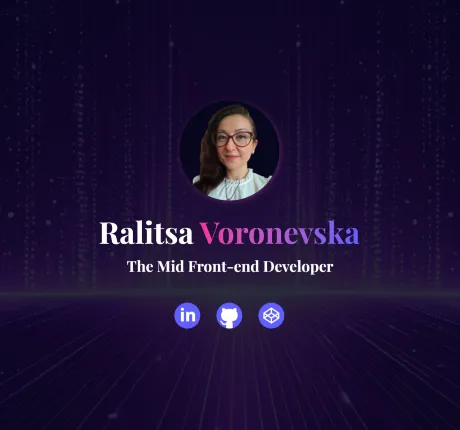
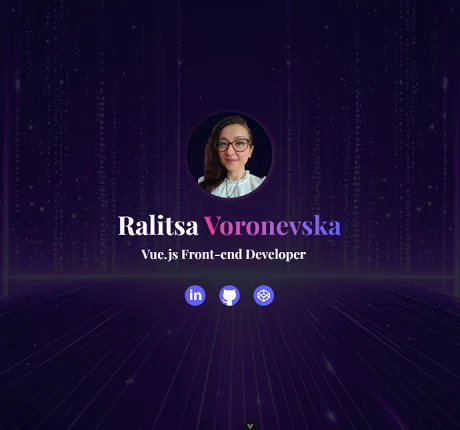
Centralize portfolio content into a single data source

diff --git a/src/data/portfolio.ts b/src/data/portfolio.ts
@@ -13,6 +13,12 @@ export interface SocialIcon {
   file_name: string;
 }
 
+export interface Highlight {
+  icon: string;
+  label: string;
+  text: string;
+}
+
 export interface Tech {
   name: string;
   file_name: string;
@@ -22,9 +28,19 @@ export interface Project {
   image: string;
   title: string;
   description: string;
+  techDescription: string;
   techStack: Tech[];
   links: SocialIcon[];
 }
+
+export const PAGES_CONTENT = {
+  hero_subtitle: "Vue.js Front-end Developer",
+  about_me_subtitle: "Hi, I'm Ralitsa Voronevska!",
+  about_me_description: `Front-end developer with 6 years of experience building performant, scalable, and fully responsive web solutions 
+  with a mobile-first approach in mind. I am focused on solutions that serve both user needs and business objectives. I adapt quickly
+  across differing codebase conventions and team structures. Since early 2026, I’ve been working on refreshing my basic Python skills.`,
+  projects_subtitle: "My latest projects built with cutting-edge technologies!",
+};
 
 export const HERO_SOCIAL_LINKS: SocialIcon[] = [
   {
@@ -54,6 +70,34 @@ export const CONTACT_SOCIAL_LINKS: SocialIcon[] = [
   { name: "Email", url: "mailto:r.voronevska@gmail.com", file_name: "email" },
 ];
 
+export const SKILLS: string[] = [
+  "Vue 3",
+  "Vite",
+  "Vitest",
+  "TypeScript",
+  "Nuxt v4",
+  "Pinia",
+  "Tailwind v4",
+];
+
+export const HIGHLIGHTS: Highlight[] = [
+  {
+    icon: "⚡",
+    label: "Performance",
+    text: "Faster load times through code-splitting, lazy loading, and smart caching",
+  },
+  {
+    icon: "✨",
+    label: "AI-assisted workflow",
+    text: "Integrating AI platforms to speed up delivery without compromising code quality",
+  },
+  {
+    icon: "{ }",
+    label: "Code quality",
+    text: "SOLID principles, design patterns, best practices, clean, and well-documented code",
+  },
+];
+
 export const TECH_STACK: Tech[] = [
   { name: "Tailwind CSS", file_name: "tailwind-css" },
   { name: "JavaScript", file_name: "javascript" },
@@ -75,13 +119,15 @@ export const TECH_STACK: Tech[] = [
 export const PROJECTS: Project[] = [
   {
     image: vuePortfolioImage,
-    title: "Vue.js Portfolio",
-    description: "My Modern Vue.js 3 Portfolio",
+    title: "Vue.js 3 Portfolio",
+    description: "Original, built from scratch",
+    techDescription: "Modern Matrix-like Themed Portfolio",
     techStack: [
       { name: "Vue.js", file_name: "vue-js" },
       { name: "Vite.js", file_name: "vite-js" },
       { name: "Vitest", file_name: "vitest" },
       { name: "TypeScript", file_name: "typescript" },
+      { name: "Pinia", file_name: "pinia" },
       { name: "Tailwind CSS", file_name: "tailwind-css" },
     ],
     links: [
@@ -104,8 +150,9 @@ export const PROJECTS: Project[] = [
   },
   {
     image: restApiImage,
-    title: "Node.js REST API",
-    description: "Simple Shop RESTful API",
+    title: "Secure Node.js REST API",
+    description: "RESTful API with Authentication",
+    techDescription: "Multer + Morgan + JWT + Bcrypt",
     techStack: [
       { name: "Node.js", file_name: "node-js" },
       { name: "Express.js", file_name: "express-js" },
@@ -128,12 +175,14 @@ export const PROJECTS: Project[] = [
     image: maptyAppImage,
     title: "Mapty App",
     description: "Map your Workout Activities",
+    techDescription: "OpenStreetMap + Leaflet.js",
     techStack: [
       { name: "Vue.js", file_name: "vue-js" },
       { name: "Vite.js", file_name: "vite-js" },
+      { name: "Vitest", file_name: "vitest" },
       { name: "TypeScript", file_name: "typescript" },
-      { name: "Tailwind CSS", file_name: "tailwind-css" },
       { name: "Pinia", file_name: "pinia" },
+      { name: "Tailwind CSS", file_name: "tailwind-css" },
     ],
     links: [
       {
@@ -152,14 +201,15 @@ export const PROJECTS: Project[] = [
   {
     image: monsterSlayerImage,
     title: "Monster Slayer Game",
-    description: "Give the Monster A Lesson",
+    description: "Give the Monster A Memorable Lesson",
+    techDescription: "Battle sounds powered by Howler.js",
     techStack: [
       { name: "Vue.js", file_name: "vue-js" },
       { name: "Vite.js", file_name: "vite-js" },
       { name: "Vitest", file_name: "vitest" },
       { name: "TypeScript", file_name: "typescript" },
-      { name: "Tailwind CSS", file_name: "tailwind-css" },
       { name: "Pinia", file_name: "pinia" },
+      { name: "Tailwind CSS", file_name: "tailwind-css" },
     ],
     links: [
       {
@@ -183,6 +233,7 @@ export const PROJECTS: Project[] = [
     image: pigGameImage,
     title: "Pig Game",
     description: "A Single Dice Game for two players",
+    techDescription: "Game sounds are powered by Howler.js",
     techStack: [
       { name: "Vue.js", file_name: "vue-js" },
       { name: "Vite.js", file_name: "vite-js" },
@@ -212,14 +263,14 @@ export const PROJECTS: Project[] = [
     image: zendeskPulseImage,
     title: "Zendesk Pulse",
     description: "Modern PrimeVue UI for Zendesk",
+    techDescription: "JWT + Postman + Swagger + Prism",
     techStack: [
       { name: "Vue.js", file_name: "vue-js" },
       { name: "Vite.js", file_name: "vite-js" },
       { name: "Vitest", file_name: "vitest" },
       { name: "JavaScript", file_name: "javascript" },
-      { name: "Tailwind CSS", file_name: "tailwind-css" },
       { name: "Pinia", file_name: "pinia" },
-      { name: "PostMan", file_name: "postman" },
+      { name: "Tailwind CSS", file_name: "tailwind-css" },
       { name: "FireBase", file_name: "firebase" },
     ],
     links: [
@@ -239,7 +290,8 @@ export const PROJECTS: Project[] = [
   {
     image: elevationMarketingImage,
     title: "Elevation Marketing",
-    description: "A modern Marketing Agency website",
+    description: "Modern Marketing Agency Website",
+    techDescription: "Custom branding, theme and visuals",
     techStack: [
       { name: "Nuxt.js", file_name: "nuxt-js" },
       { name: "Vue.js", file_name: "vue-js" },
@@ -264,7 +316,8 @@ export const PROJECTS: Project[] = [
   {
     image: maximaCxImage,
     title: "Maxima CX",
-    description: "Customer Support Agency website",
+    description: "Customer Support Agency Website",
+    techDescription: "Brand identity, theme and content",
     techStack: [
       { name: "Nuxt.js", file_name: "nuxt-js" },
       { name: "Vue.js", file_name: "vue-js" },

diff --git a/src/components/AboutMe.vue b/src/components/AboutMe.vue
@@ -1,27 +1,9 @@
 <script setup lang="ts">
 import HeroImage from "./HeroImage.vue";
+import { usePortfolioData } from "@/composables/usePortfolioData";
 
-// Skill pills
-const skills = ["Vue 3", "Nuxt v4", "TypeScript", "Pinia", "Tailwind v4"];
-
-// Feature cards — label + one-line description
-const highlights = [
-  {
-    icon: "⚡",
-    label: "Performance",
-    text: "Faster load times through code-splitting, lazy loading, and smart caching",
-  },
-  {
-    icon: "✨",
-    label: "AI-assisted workflow",
-    text: "Integrating AI platforms to speed up delivery without compromising code quality",
-  },
-  {
-    icon: "{ }",
-    label: "Code quality",
-    text: "SOLID principles, design patterns, best practices, clean, and well-documented code",
-  },
-];
+const { aboutMeSubtitle, aboutMeDescription, skills, highlights } =
+  usePortfolioData();
 </script>
 
 <template>
@@ -32,7 +14,7 @@ const highlights = [
   >
     <!-- headings -->
     <h2>About <span class="gradient-text">Me</span></h2>
-    <h3>Hi, I'm Ralitsa Voronevska!</h3>
+    <h3>{{ aboutMeSubtitle }}</h3>
 
     <!-- Header: stacked + centered on mobile, side-by-side from sm: up -->
     <div
@@ -42,12 +24,7 @@ const highlights = [
 
       <div class="rounded-lg w-full flex-1 shadow-3xl bg-slate-950/75 p-4">
         <p class="mb-6 leading-relaxed text-lg sm:leading-relaxed">
-          Front-end developer with 6 years of experience building performant,
-          scalable, and fully responsive web solutions with a mobile-first
-          approach in mind. I am focused on solutions that serve both user needs
-          and business objectives. I adapt quickly across differing codebase
-          conventions and team structures. Since early 2026, I’ve been working
-          on refreshing my basic Python skills.
+          {{ aboutMeDescription }}
         </p>
 
         <div class="flex flex-wrap justify-center gap-1.5 sm:justify-start">
@@ -70,7 +47,7 @@ const highlights = [
         class="rounded-lg shadow-3xl bg-slate-950/75 p-4"
       >
         <p
-          class="mb-1.5 flex items-center gap-1.5 text-xs text-slate-500 sm:text-[13px] dark:text-slate-400"
+          class="mb-1.5 flex items-center gap-1.5 text-xs text-slate-400 sm:text-[13px]"
         >
           <span aria-hidden="true">{{ item.icon }}</span>
           {{ item.label }}

diff --git a/src/components/ProjectCard.vue b/src/components/ProjectCard.vue
@@ -25,11 +25,20 @@
         <!-- Description -->
         <p class="card-desc">{{ description }}</p>
 
+        <!-- Tech Description -->
+        <p class="card-tech-desc">{{ techDescription }}</p>
+
         <!-- start of glow-icons -->
         <div
           ref="sectionRef"
           class="glow-icons"
-          :class="techStack.length > 5 ? 'gap-2' : 'gap-3'"
+          :class="
+            techStack.length === 7
+              ? 'gap-1.75 md:gap-2.5 lg:gap-4'
+              : techStack.length > 5
+                ? 'gap-4 md:gap-5 lg:gap-6.5'
+                : 'gap-7 md:gap-8 lg:gap-10'
+          "
         >
           <!-- Glow Icons -->
           <GlowIcons
@@ -66,6 +75,7 @@ const props = defineProps<{
   image?: string;
   title?: string;
   description?: string;
+  techDescription?: string;
   icons?: Array<{ name: string; url: string; file_name: string }>;
   techStack?: Array<{ name: string; file_name: string }>;
   index?: number;
@@ -81,6 +91,7 @@ const techStack = props.techStack ?? [];
 const icons = props.icons ?? [];
 const title = props.title ?? "";
 const description = props.description ?? "";
+const techDescription = props.techDescription ?? "";
 
 const projectImage = (image: string) => (image ? image : commingSoonImg);
 </script>

diff --git a/src/components/ProjectsList.vue b/src/components/ProjectsList.vue
@@ -1,7 +1,7 @@
 <template>
   <section id="projects" class="projects">
     <h2>My <span class="gradient-text">Projects</span></h2>
-    <h3>My latest projects built with cutting-edge technologies!</h3>
+    <h3>{{ projectsSubtitle }}</h3>
     <div ref="sectionRef" class="cards-grid">
       <ProjectCard
         v-for="(project, index) in projects"
@@ -10,6 +10,7 @@
         :title="project.title || ''"
         :description="project.description || ''"
         :icons="project.links || []"
+        :techDescription="project.techDescription || ''"
         :techStack="project.techStack"
         :index="index"
         :isVisible="isVisible"
@@ -34,5 +35,5 @@ import { useInView } from "@/composables/useInView";
 const sectionRef = useTemplateRef<HTMLDivElement>("sectionRef");
 const { isVisible } = useInView(sectionRef);
 
-const { projects } = usePortfolioData();
+const { projectsSubtitle, projects } = usePortfolioData();
 </script>

diff --git a/src/composables/usePortfolioData.ts b/src/composables/usePortfolioData.ts
@@ -1,5 +1,9 @@
 // src/composables/usePortfolioData.ts
 import {
+  PAGES_CONTENT,
+  SKILLS,
+  HIGHLIGHTS,
+  type Highlight,
   HERO_SOCIAL_LINKS,
   CONTACT_SOCIAL_LINKS,
   type SocialIcon,
@@ -11,9 +15,15 @@ import {
 
 export function usePortfolioData() {
   return {
+    heroSubtitle: PAGES_CONTENT.hero_subtitle,
     heroSocialIcons: HERO_SOCIAL_LINKS as SocialIcon[],
-    contactSocialIcons: CONTACT_SOCIAL_LINKS as SocialIcon[],
+    aboutMeSubtitle: PAGES_CONTENT.about_me_subtitle,
+    aboutMeDescription: PAGES_CONTENT.about_me_description,
+    skills: SKILLS as string[],
+    highlights: HIGHLIGHTS as Highlight[],
+    projectsSubtitle: PAGES_CONTENT.projects_subtitle,
     techStack: TECH_STACK as Tech[],
     projects: PROJECTS as Project[],
+    contactSocialIcons: CONTACT_SOCIAL_LINKS as SocialIcon[],
   };
 }

diff --git a/src/assets/css/main.css b/src/assets/css/main.css
@@ -136,7 +136,7 @@
     .cards-grid {
       @apply w-full grid grid-cols-1 sm:grid-cols-2 lg:grid-cols-3 xl:grid-cols-4 gap-6;
       .card {
-        @apply bg-slate-950/75 rounded-3xl p-4 shadow-3xl transition-all duration-300 hover:scale-[1.02] hover:-translate-y-1;
+        @apply bg-slate-950/75 rounded-3xl p-3 md:p-4 shadow-3xl transition-all duration-300 hover:scale-[1.02] hover:-translate-y-1;
         .card-img {
           @apply w-full h-70 md:h-80 object-cover rounded-2xl mb-6;
         }
@@ -147,6 +147,9 @@
           }
           .card-desc {
             @apply font-semibold text-lg;
+          }
+          .card-tech-desc {
+            @apply font-semibold text-lg text-slate-400;
           }
           .glow-icons {
             @apply flex items-center justify-center flex-wrap;

diff --git a/src/components/Hero.vue b/src/components/Hero.vue
@@ -9,7 +9,7 @@
       <!-- start of name-and-info -->
       <div class="name-and-info">
         <h1>Ralitsa <span class="gradient-text">Voronevska</span></h1>
-        <h2>{{ displayedText }}</h2>
+        <h2>{{ heroSubtitle }}</h2>
       </div>
       <!-- end of name-and-info -->
     </div>
@@ -26,11 +26,8 @@
 
 <script setup lang="ts">
 defineOptions({ name: "AppHero" });
-import { ref } from "vue";
 import HeroImage from "./HeroImage.vue";
 import SocialIcons from "./SocialIcons.vue";
 import { usePortfolioData } from "@/composables/usePortfolioData";
-const { heroSocialIcons } = usePortfolioData();
-
-const displayedText = ref("The Mid Front-end Developer");
+const { heroSubtitle, heroSocialIcons } = usePortfolioData();
 </script>
